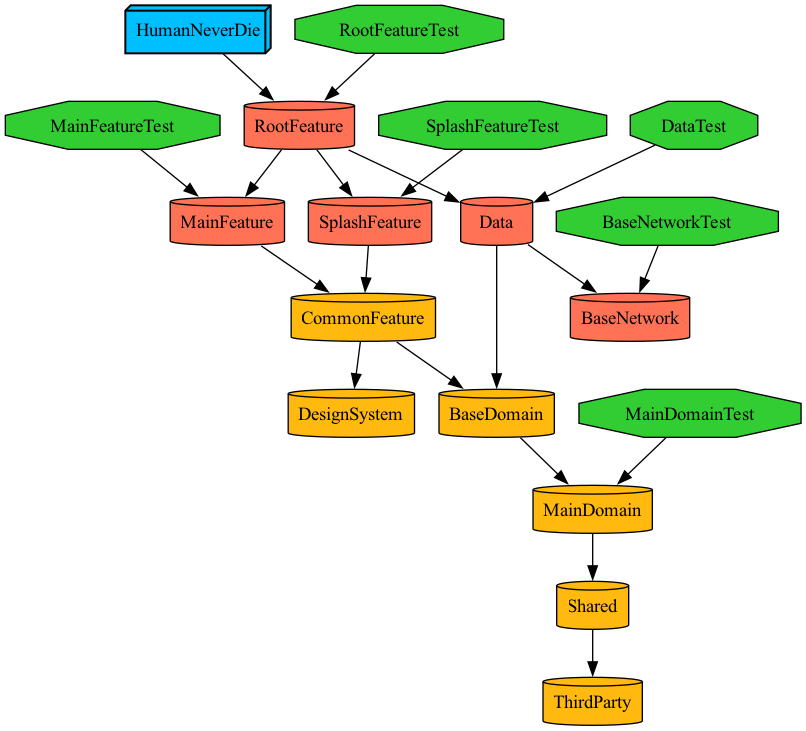
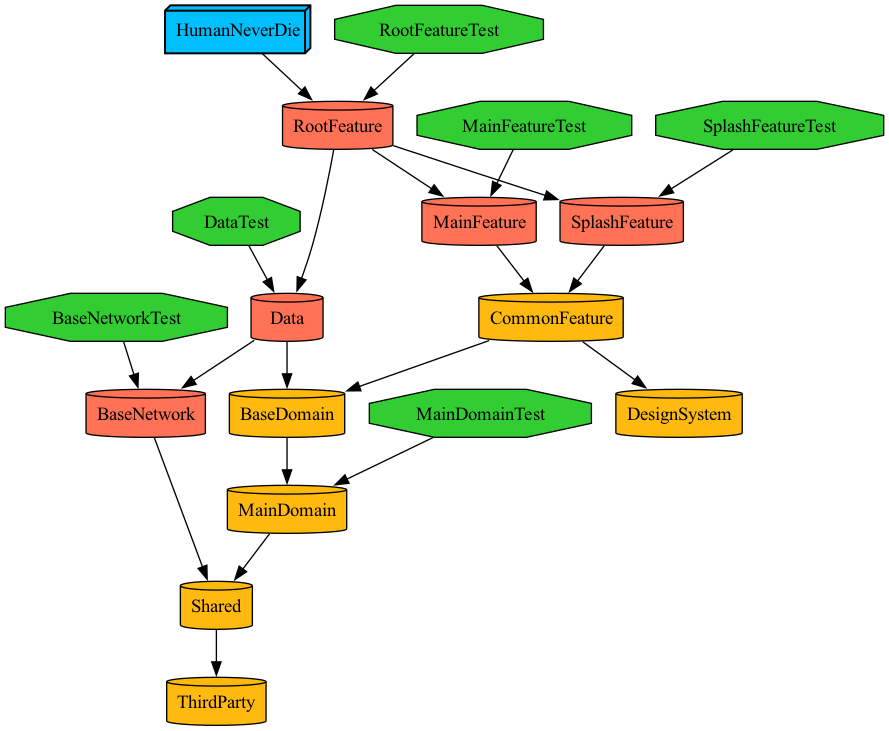
chore: BaseNetwork 의존성 수정

diff --git a/HumanNeverDie/Projects/Data/BaseNetwork/Project.swift b/HumanNeverDie/Projects/Data/BaseNetwork/Project.swift
@@ -5,6 +5,7 @@ let project = Project.makeModule(
     name: Modules.BaseNetwork.name,
     product: .staticFramework,
     dependencies: [
-        .SPM.alamofire
+        .SPM.alamofire,
+        .shared
     ]
 )